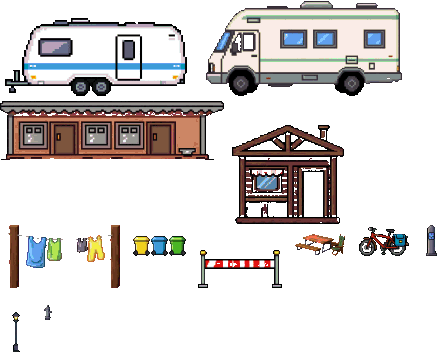
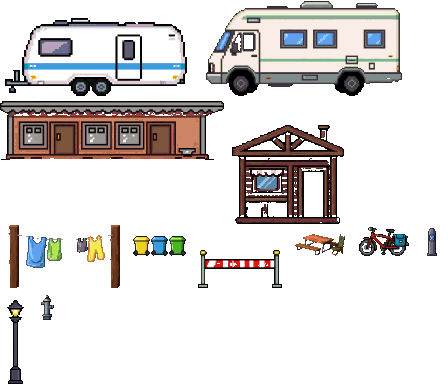
GAME-205: тонкі предмети (ліхтар, стовпчик, кран) — масштаб за висотою (measure: height у world-scale; сторож + самотест + мутація); ліхтар 3 м = 84 px
Claude-Session: https://claude.ai/code/session_01RoJJJhaZjeur2b1tUo6iMd

diff --git a/scripts/art/check_world.py b/scripts/art/check_world.py
@@ -33,7 +33,7 @@ ORDER_RATIO = 1.15
 SLOPE_MAX = 0.25   # ізометрія ≈ 0,5; складені предмети (стійка + тумба, полиця з балонами) дають до ±0,2 — рецензія PR #136
 MIN_ISO_W = 48     # стовпчики й ліхтарі на круглій ніжці вужчі: їхній нерівний низ — не ізометрія
 CENTRAL = 0.8
-ENABLED = {'scale': True, 'order': True, 'iso': True, 'vee': True, 'missing': True, 'calib': True}   # --mutate чіпає саме ці місця
+ENABLED = {'scale': True, 'order': True, 'iso': True, 'vee': True, 'missing': True, 'calib': True, 'measure': True}   # --mutate чіпає саме ці місця
 
 
 def opaque(px):
@@ -123,12 +123,14 @@ def evaluate(entries, loader, px_per_m=28, tol=0.25):
             errors.append(('WORLD_SCALE', f"{e['id']}: у кропі {e['crop']} немає жодного видимого пікселя — кроп хибний (порожній ≠ зелений)"))
             continue
         bb, w, h, cols = m
-        pxm = w / e['real_width_m']
+        by_h = ENABLED['measure'] and e.get('measure') == 'height'   # тонкий предмет (ліхтар, стовпчик): силует ширший за тіло — міряємо висоту
+        pxm = h / e['real_height_m'] if by_h else w / e['real_width_m']
         slope = bottom_slope(cols, bb[0], bb[2])
-        rows.append(dict(id=e['id'], w=w, h=h, pxm=pxm, pxm_h=h / e['real_height_m'], slope=slope, real_w=e['real_width_m'], entry=e))
+        rows.append(dict(id=e['id'], w=w, h=h, pxm=pxm, pxm_h=h / e['real_height_m'], slope=slope, real_w=e['real_width_m'], entry=e, by_h=by_h))
         if ENABLED['scale'] and not (lo <= pxm <= hi):
-            want = round(e['real_width_m'] * px_per_m)
-            errors.append(('WORLD_SCALE', f"{e['id']}: ширина {w} px при {e['real_width_m']} м = {pxm:.1f} px/м, треба {lo:.0f}–{hi:.0f} "
+            dim, m, px = ('висота', e['real_height_m'], h) if by_h else ('ширина', e['real_width_m'], w)
+            want = round(m * px_per_m)
+            errors.append(('WORLD_SCALE', f"{e['id']}: {dim} {px} px при {m} м = {pxm:.1f} px/м, треба {lo:.0f}–{hi:.0f} "
                            f"(≈{want} px). Спрайт {'завеликий' if pxm > hi else 'замалий'} у {max(pxm, px_per_m) / min(pxm, px_per_m):.2f} раза"))
         (sl, rl), (sr, rr) = v_bottom(cols, bb[0], bb[2])
         if ENABLED['vee'] and w >= MIN_ISO_W and HALF_MAX < sl < 1.5 and -1.5 < sr < -HALF_MAX and min(rl, rr) >= R2_MIN:   # «V» (низ униз до середини); стовп на ніжці дає >1,5, «Λ» шлагбаума — інший знак
@@ -138,8 +140,9 @@ def evaluate(entries, loader, px_per_m=28, tol=0.25):
             errors.append(('WORLD_ISO', f"{e['id']}: низ силуету похилий (нахил {slope:+.2f}, межа ±{SLOPE_MAX}) — ізометрія/перспектива, "
                            f"а в грі лише LPC 3/4 ортогонально (передня грань рівно до екрана)"))
     if ENABLED['order']:
-        for a in rows:
-            bad = [b for b in rows if a['real_w'] > ORDER_RATIO * b['real_w'] and a['w'] < b['w']]   # рівна ширина — не порушення: тайлова сітка (32 px) не розрізняє 1,0 і 1,2 м
+        wide = [r for r in rows if not r['by_h']]   # порядок — за шириною; тонкі (за висотою) не порівнюємо
+        for a in wide:
+            bad = [b for b in wide if a['real_w'] > ORDER_RATIO * b['real_w'] and a['w'] < b['w']]   # рівна ширина — не порушення: тайлова сітка (32 px) не розрізняє 1,0 і 1,2 м
             if bad:
                 errors.append(('WORLD_ORDER', f"{a['id']} ({a['real_w']} м) на екрані {a['w']} px, а менші в житті не менші на екрані: "
                                + ', '.join(f"{b['id']} ({b['real_w']} м) = {b['w']} px" for b in sorted(bad, key=lambda b: -b['w'])[:4])
@@ -278,7 +281,7 @@ def with_magenta(w, h):
 
 
 def selftest():
-    img = {'good': box(126, 42), 'good_small': box(14, 28), 'shear': sheared(126, 42), 'vee': diamond(126, 42), 'bush': ellipse(60, 36), 'tree': tree(84, 110), 'big': box(250, 84), 'small': box(40, 14),
+    img = {'good': box(126, 42), 'good_small': box(14, 28), 'shear': sheared(126, 42), 'vee': diamond(126, 42), 'bush': ellipse(60, 36), 'post': box(14, 84), 'tree': tree(84, 110), 'big': box(250, 84), 'small': box(40, 14),
            'magenta': with_magenta(126, 42), 'tiny_ref': box(30, 20)}
     loader = lambda f: img.get(f)
     E = lambda i, f, w, h, crop=None: dict(id=i, file=f, crop=crop or [0, 0, img[f].width, img[f].height], real_width_m=w, real_height_m=h, view='front')
@@ -302,6 +305,7 @@ def selftest():
     case('кущ (круглий низ) — не ізометрія', [E('bush', 'bush', 2.0, 1.2)], [])
     case('дерево (крона + стовбур) — не ізометрія', [E('tree', 'tree', 3.0, 4.0)], [])
     case('однакова ширина при 4,5 і 5,4 м — не порушення порядку', [E('a', 'good', 4.5, 1.5), E('b', 'good', 5.4, 1.5)], [])
+    case('тонкий ліхтар за висотою (0,3×3 м, 14×84 px) проходить', [dict(E('lamp', 'post', 0.3, 3.0), measure='height')], [])
     case('завелика коробка → WORLD_SCALE', [E('car', 'big', 4.5, 1.5)], ['WORLD_SCALE'])
     case('замала коробка → WORLD_SCALE', [E('car', 'small', 4.5, 1.5)], ['WORLD_SCALE'])
     # порядок: кемпер 7 м вужчий за авто 4,5 м; масштаб у межах (мутація SCALE не має його ховати)
@@ -329,10 +333,11 @@ MUTATIONS = [
     ('ORDER вимкнено', "'order': True,", "'order': False,"),
     ('ISO вимкнено', "'iso': True,", "'iso': False,"),
     ('«V»-ізометрію вимкнено', "'vee': True,", "'vee': False,"),
+    ('measure: height ігнорується', "'measure': True}", "'measure': False}"),
     ('«V» без перевірки прямизни ребер', "R2_MIN = 0.9 ", "R2_MIN = 0.0 "),
     ('рівна ширина знову порушення', "and a['w'] < b['w']]", "and not a['w'] > b['w']]"),
     ('MISSING_ENTRY вимкнено', "'missing': True,", "'missing': False,"),
-    ('CALIB вимкнено', "'calib': True}", "'calib': False}"),
+    ('CALIB вимкнено', "'calib': True,", "'calib': False,"),
     ('пурпур не вважається прозорим', "and not (px[0] >= 250 and px[1] <= 5 and px[2] >= 250)", ''),
     ('поріг нахилу розкритий до 0,9', 'SLOPE_MAX = 0.25', 'SLOPE_MAX = 0.9'),
     ('допуск масштабу 100 %', "def evaluate(entries, loader, px_per_m=28, tol=0.25):", "def evaluate(entries, loader, px_per_m=28, tol=1.0):"),

diff --git a/scripts/assets/build_camp_props.py b/scripts/assets/build_camp_props.py
@@ -40,8 +40,12 @@ SRC_FILE = {'sanitary': 'sanitary-block', 'reception': 'reception-hut', 'bins': 
 
 
 def real_widths():
+    """-> {id: ('w'|'h', метри)}: тонкі предмети (measure: height) масштабуються за висотою, решта — за шириною."""
     import json
-    return {e['id']: e['real_width_m'] for e in json.load(open(SCALE_JSON, encoding='utf8'))['entries']}
+    out = {}
+    for e in json.load(open(SCALE_JSON, encoding='utf8'))['entries']:
+        out[e['id']] = ('h', e['real_height_m']) if e.get('measure') == 'height' else ('w', e['real_width_m'])
+    return out
 
 
 def is_bg(p):
@@ -129,15 +133,16 @@ def decontaminate(im, strict=False):
 STRICT = {'boots-rack'}
 
 
-def sprite(name, src, variant, width_px):
+def sprite(name, src, variant, target):
     im = Image.open(os.path.join(ROOT, 'art/out', src, f'{SRC_FILE.get(name, name)}_{variant}.webp'))
     im = key_out(im)
     for _ in range(2):                                   # пурпурова кайма: два проходи (друга знімає рожеві «тіні» під першою)
         im = decontaminate(im, True)
     im = drop_small(im)
     im = im.crop(im.getchannel('A').point(lambda v: 255 if v >= 128 else 0).getbbox())
-    k = width_px / im.width
-    return im.resize((width_px, max(1, round(im.height * k))), Image.BOX)
+    axis, px = target
+    k = px / (im.width if axis == 'w' else im.height)
+    return im.resize((max(1, round(im.width * k)), max(1, round(im.height * k))), Image.BOX)
 
 
 def layout(sprites):
@@ -155,7 +160,7 @@ def layout(sprites):
 
 def build(workdir):
     rw = real_widths()
-    sprites = {n: sprite(n, src, v, round(rw[i] * PX_PER_M)) for n, i, src, v in ITEMS}
+    sprites = {n: sprite(n, src, v, (rw[i][0], round(rw[i][1] * PX_PER_M))) for n, i, src, v in ITEMS}
     pos, rows = layout(sprites)
     sheet = Image.new('RGBA', (COLS * T, rows * T))
     crops = {}
@@ -183,7 +188,7 @@ def write_scale(crops):
 def prop_sheet():
     """Для build_camp_lake.py: {ім'я: (col, row, w_tiles, h_tiles)}; рядків аркуша."""
     rw = real_widths()
-    sprites = {n: sprite(n, src, v, round(rw[i] * PX_PER_M)) for n, i, src, v in ITEMS}
+    sprites = {n: sprite(n, src, v, (rw[i][0], round(rw[i][1] * PX_PER_M))) for n, i, src, v in ITEMS}
     pos, rows = layout(sprites)
     return pos, rows
 
